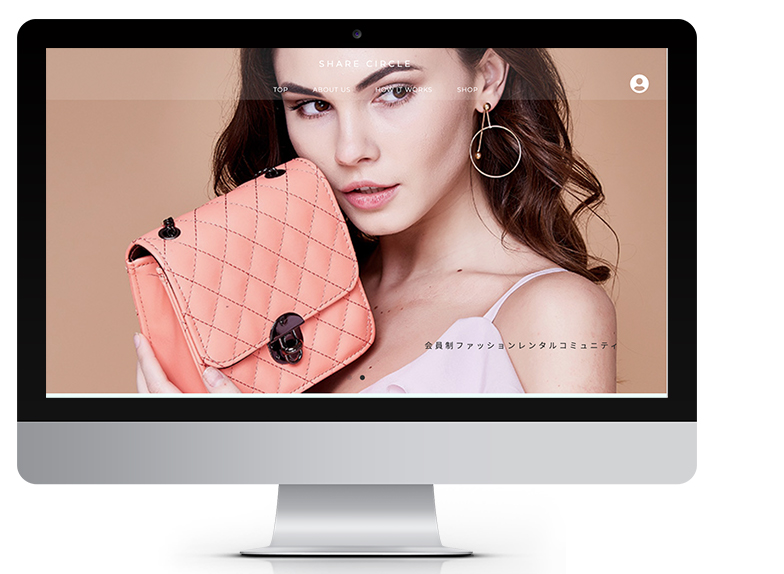
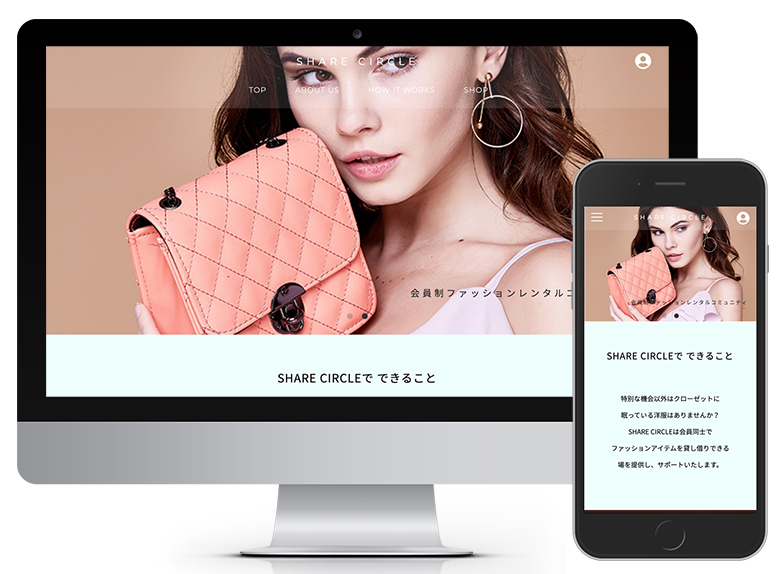
newpf sc page update

diff --git a/newpf/sc.html b/newpf/sc.html
@@ -23,7 +23,6 @@
     gtag('js', new Date());
 
     gtag('config', 'UA-145765012-4');
-
   </script>
 </head>
 
@@ -55,7 +54,7 @@
           <div class="explanation">
             <dl>
               <dt>カテゴリー</dt>
-              <dd>ウェブサイト(非レスポンシブ)
+              <dd>ウェブサイト(レスポンシブ)※現在、TOPページのみ対応。下層ページは改修中です。
               </dd>
             </dl>
             <hr>
@@ -127,10 +126,7 @@
         return false;
       });
     });
-
   </script>
 
 
-</body>
-
-</html>
+</body></html>
